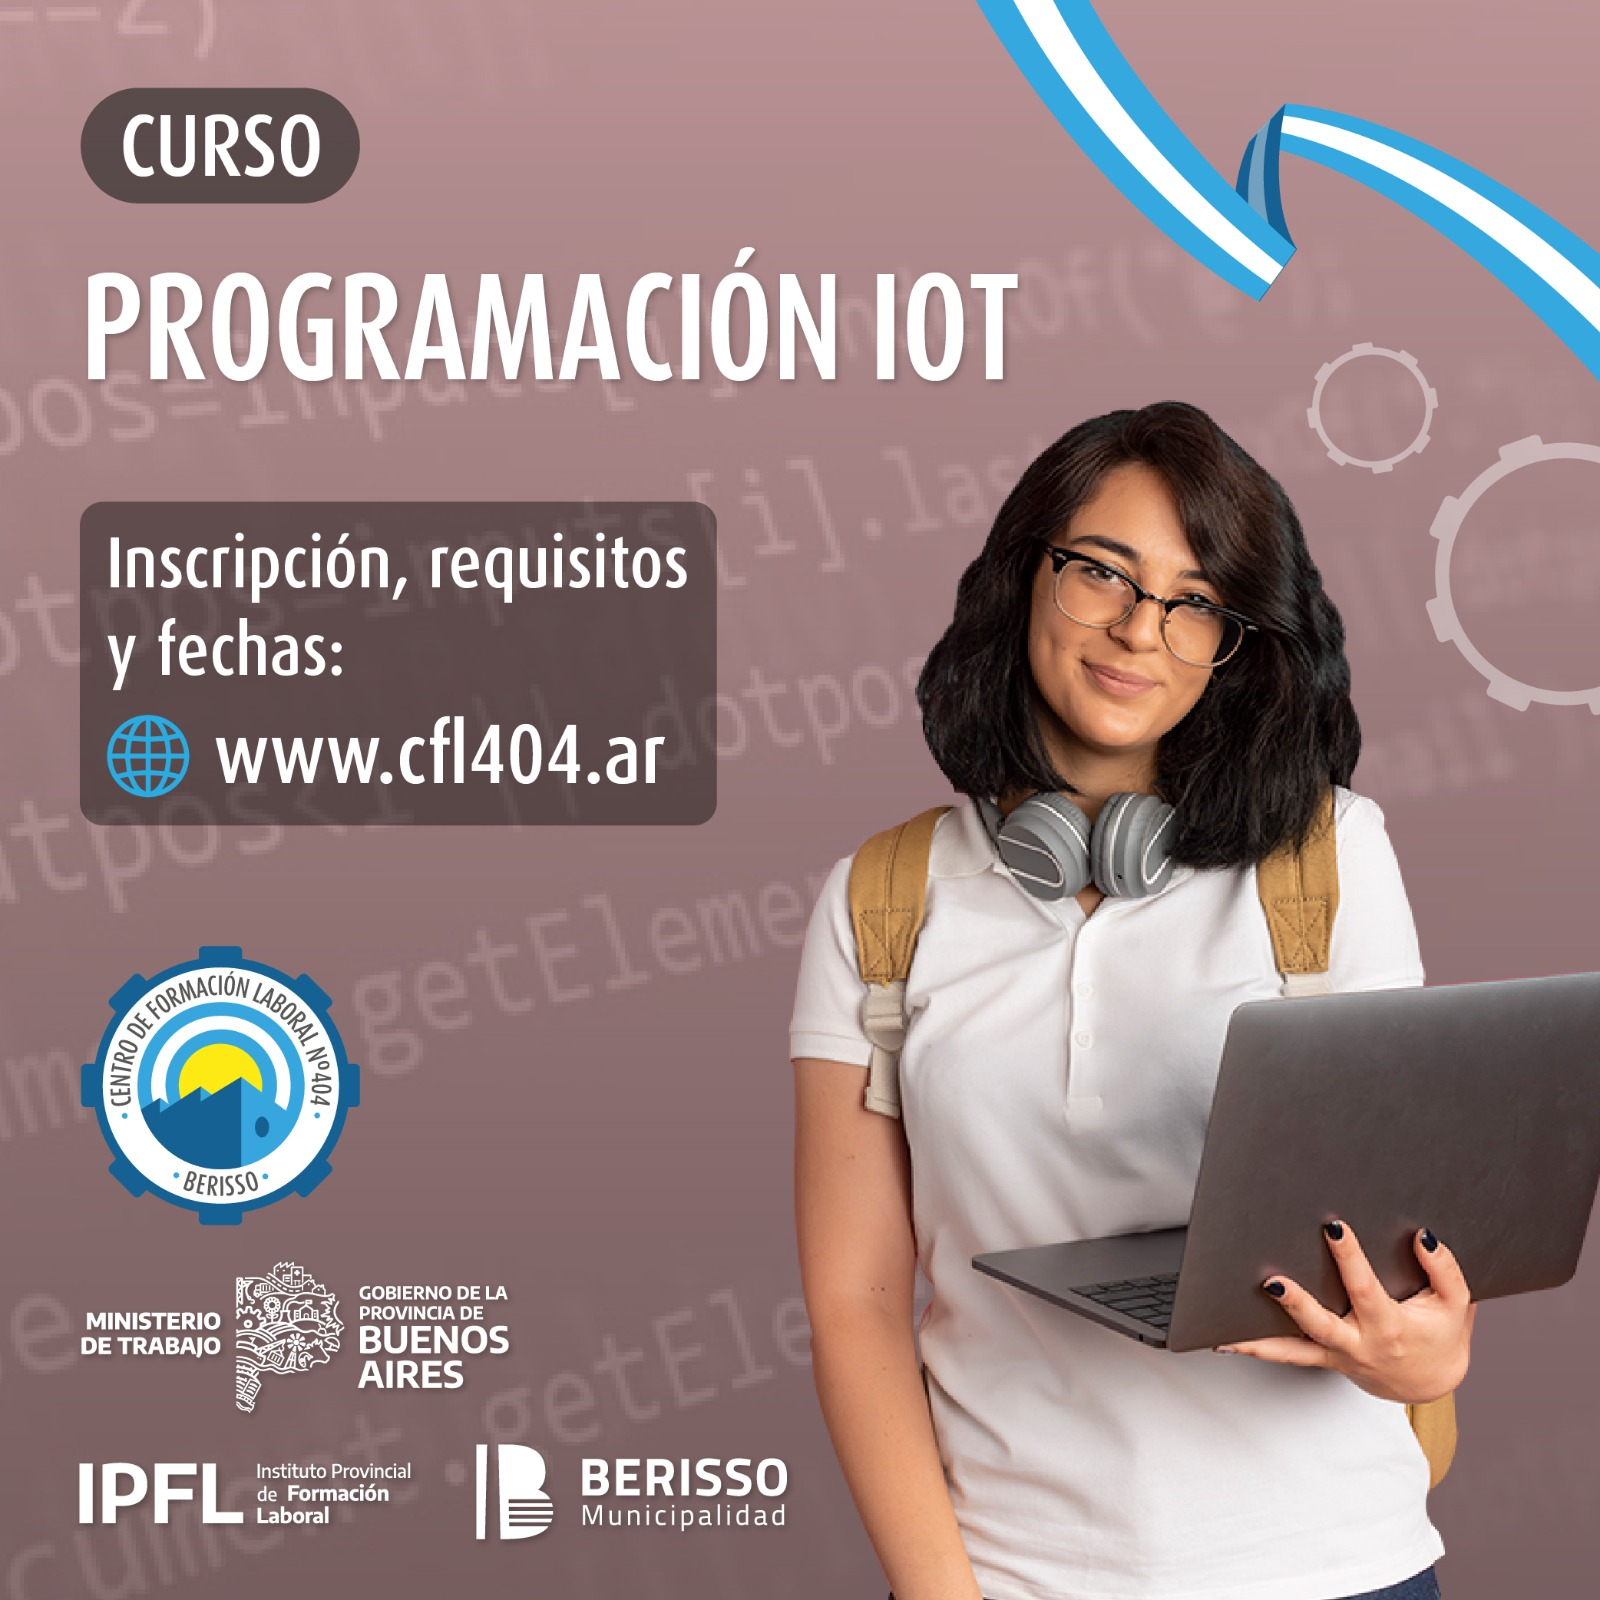
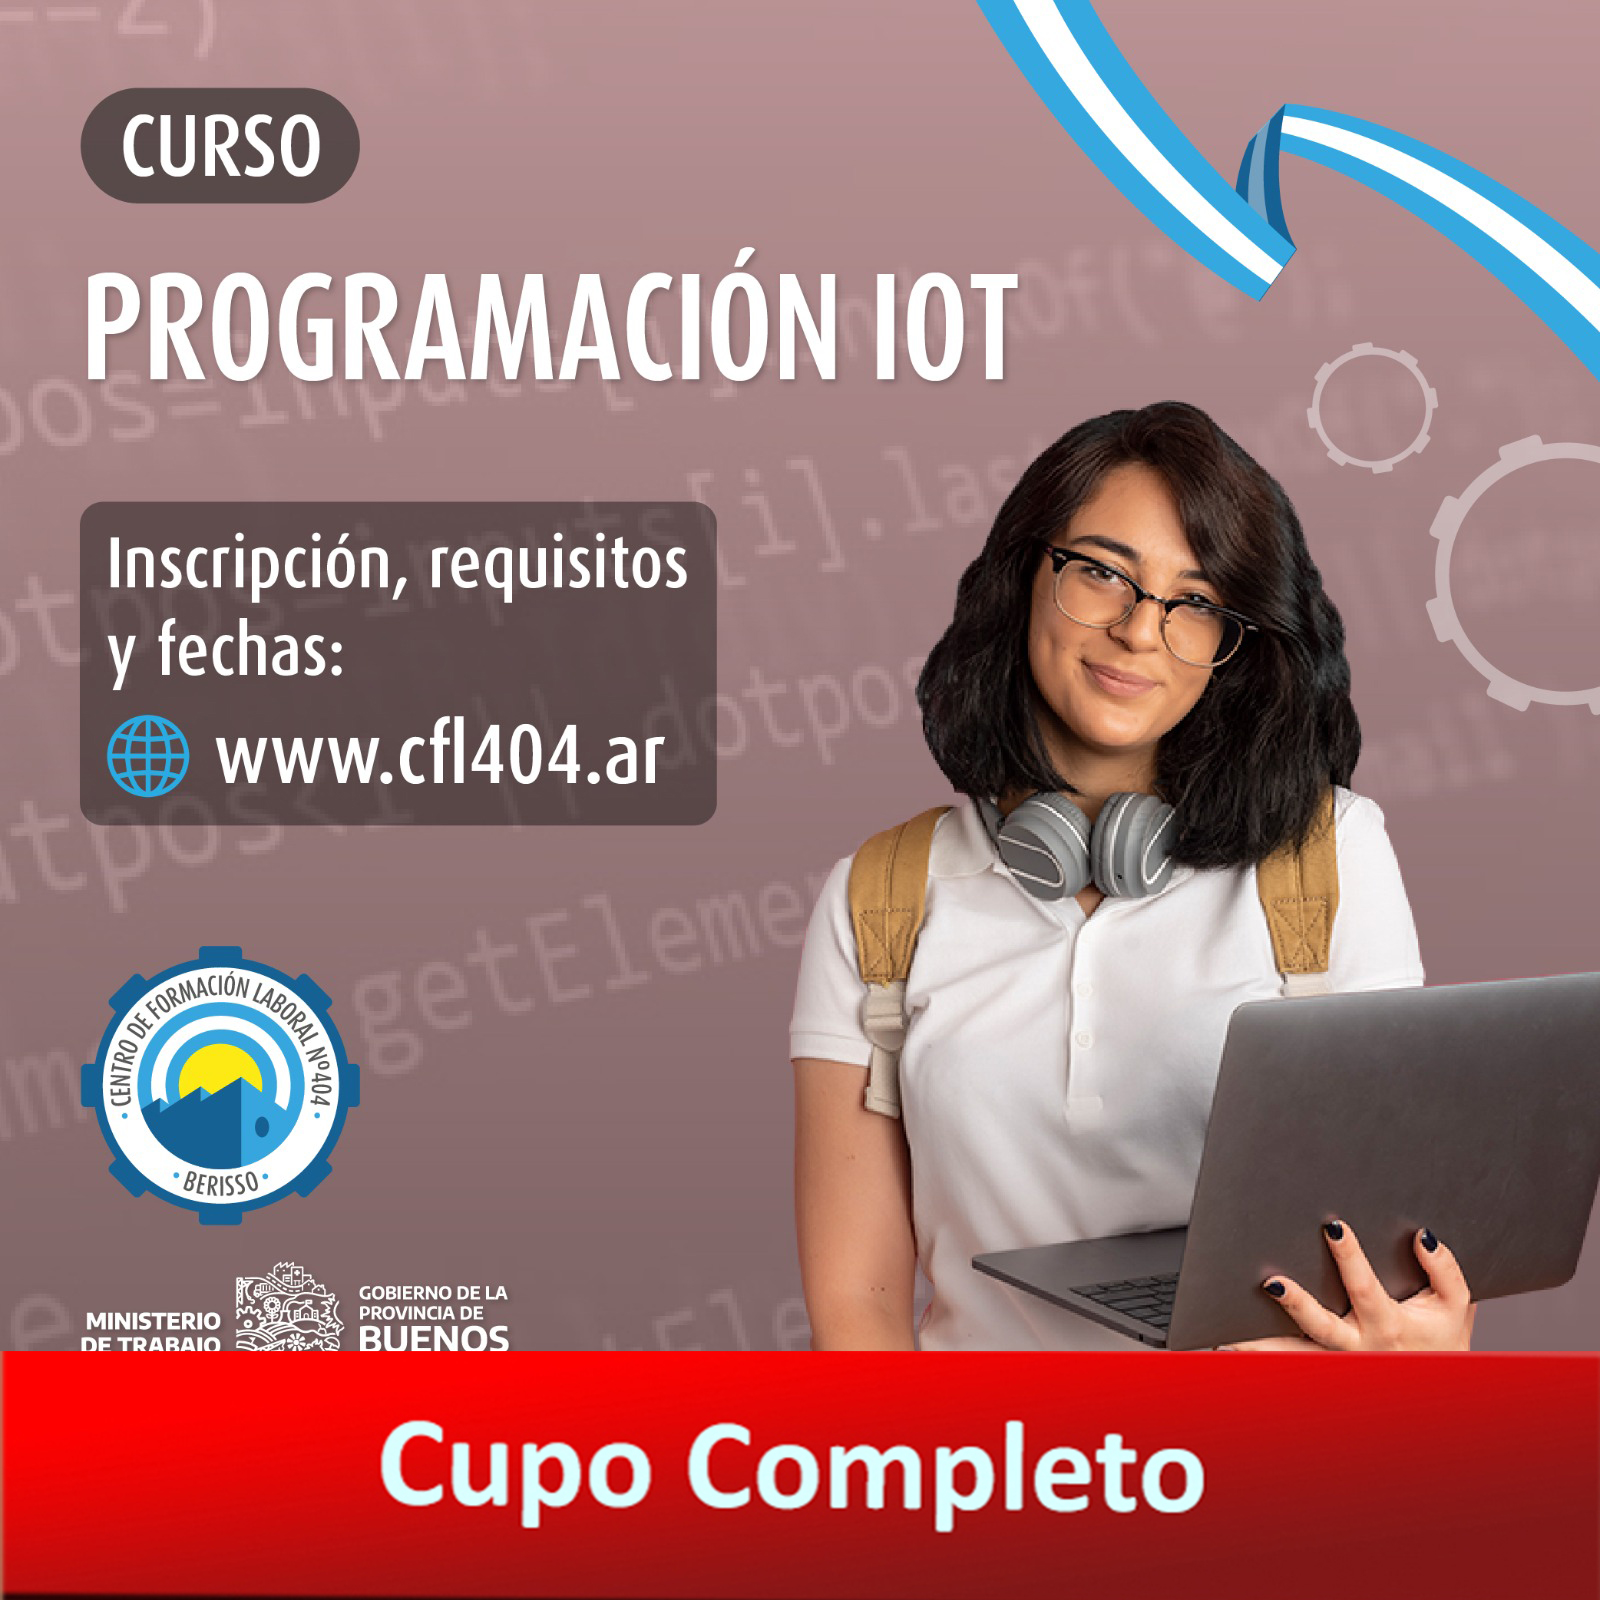
cierre de inscripcion

Changed region(s): [[0.0, 0.8438, 1.0, 1.0]]

diff --git a/diseno-grafico.html b/diseno-grafico.html
@@ -78,9 +78,9 @@
             <li>- Todos los cursos son <strong>TOTALMENTE GRATUITOS</strong></li>
         </ul><br>
 
-        <a href="INSCRIPCION_URL"
+        <a href="#"
         ><button class="mas_info">
-          Anotarme
+          Cupo Completo
         </button></a
       ><br />
     </div>

diff --git a/programador.html b/programador.html
@@ -84,9 +84,9 @@
             <li>- Todos los cursos son <strong>TOTALMENTE GRATUITOS</strong></li>
         </ul><br>
 
-        <a href="INSCRIPCION_URL"
+        <a href="#"
         ><button class="mas_info">
-          Anotarme
+          Cupo Completo
         </button></a
       ><br />
     </div>

diff --git a/programador-iot.html b/programador-iot.html
@@ -163,9 +163,9 @@
       </ul>
       <br />
 
-      <a href="INSCRIPCION_URL"
+      <a href="#"
         ><button class="mas_info">
-          Anotarme
+          Cupo Completo
         </button></a
       ><br />
     </div>
